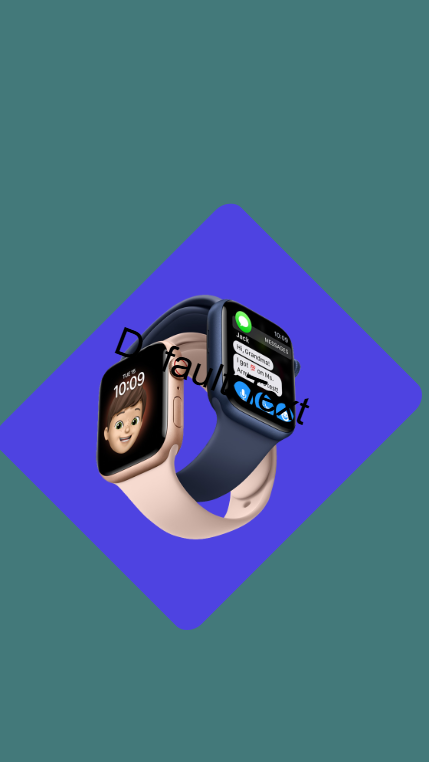
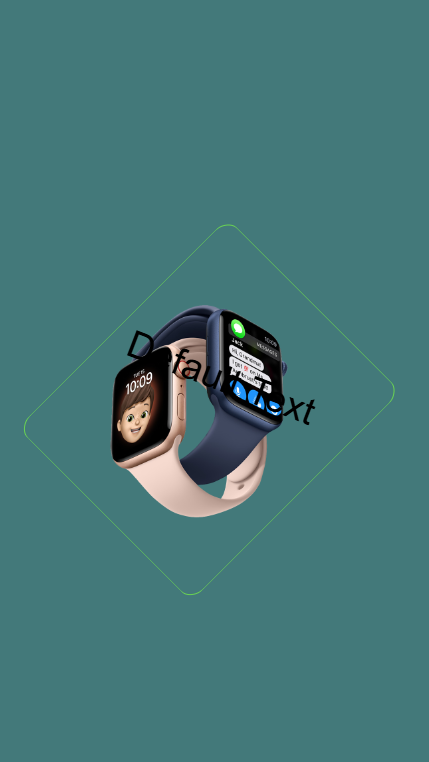
changes for Save stroke and fill save color

Changed region(s): [[0.0, 0.2415, 1.0, 0.8451]]

diff --git a/AnimationProject/wwwroot/js/animations.js b/AnimationProject/wwwroot/js/animations.js
@@ -580,7 +580,6 @@ function initializeLayers() {
 }
 
 function drawCanvas(condition) {
-    console.log("Calling Point");
     initializeLayers();
     resizeCanvas();
     const dpr = window.devicePixelRatio || 1;
@@ -2285,6 +2284,9 @@ function cloneImageObject(srcObj) {
         selected: false,
         zIndex: getNextZIndex(),
         type: 'image',
+        fillNoColor: false,
+        strokeNoColor: false,
+        strokeWidth: parseInt(document.getElementById('ddlStrokeWidth').value, 10) || 3
         // Copy any other custom fields if needed...
     };
 }
@@ -4264,6 +4266,13 @@ canvas.addEventListener("click", function (e) {
     drawCanvas('Common');
     updateFontStyleButtons();
     const selectedType = getSelectedType();
+    if (selectedType == "Shape") {
+        $("#hdnfillNoColor").val(imgHit.fillNoColor || false);
+        $("#hdnstrokeNoColor").val(imgHit.strokeNoColor || false);
+        document.getElementById('ddlStrokeWidth').value = (imgHit.strokeWidth || 3).toString();
+        document.getElementById("noColorCheck").checked = imgHit.fillNoColor||false;
+        document.getElementById("noColorCheck2").checked = imgHit.strokeNoColor || false;
+    }
     console.log("Selected Type:", selectedType);
     HideShowRightPannel(selectedType);
 
@@ -4615,7 +4624,11 @@ function SetNoFillColor() {
             previousFillColor = fillColorPicker.value;
             $("#hdnfillColor").val("none");
             updateSelectedImageColors("none", $("#hdnStrockColor").val());
+            $("#hdnfillNoColor").val(true);
+            /*document.getElementById("noColorCheck").checked = true;*/
         } else {
+            $("#hdnfillNoColor").val(false);
+            /*document.getElementById("noColorCheck").checked = false;*/
             // Restore previous fill color
             if (previousFillColor) {
                 $("#hdnfillColor").val(previousFillColor);
@@ -4651,12 +4664,16 @@ function SetNoStrokeColor() {
             // Save current stroke color
             previousStrokeColor = strokeColorPicker.value;
             $("#hdnStrockColor").val("none");
-            updateSelectedImageColors($("#hdnfillColor").val(), "none");
+            updateSelectedImageColors($("#hdnStrockColor").val(), "none");
+            $("#hdnstrokeNoColor").val(true);
+           /* document.getElementById("noColorCheck2").checked = true;*/
         } else {
+            $("#hdnstrokeNoColor").val(false);
+           /* document.getElementById("noColorCheck2").checked = false;*/
             // Restore previous stroke color
             if (previousStrokeColor) {
                 $("#hdnStrockColor").val(previousStrokeColor);
-                updateSelectedImageColors($("#hdnfillColor").val(), previousStrokeColor);
+                updateSelectedImageColors($("#hdnStrockColor").val(), previousStrokeColor);
 
                 // Also update the color picker UI
                 strokeColorPicker.value = previousStrokeColor;
@@ -4900,7 +4917,10 @@ canvas.addEventListener('drop', e => {
             groupId: null,
             rotation: 0,
             type: "image",
-            zIndex: getNextZIndex()
+            zIndex: getNextZIndex(),
+            fillNoColor: false,
+            strokeNoColor: false,
+            strokeWidth: parseInt(document.getElementById('ddlStrokeWidth').value, 10) || 3
         });
         drawCanvas('Common');
     };
@@ -5956,3 +5976,10 @@ duplicateOption.addEventListener('click', () => {
     }
 });
 
+function strokeWidthChanges() {
+    const ddl = document.getElementById('ddlStrokeWidth');
+    const newWidth = ddl.value;    // e.g. "4"
+    const widthNum = parseInt(newWidth, 10);
+
+    console.log('Stroke width changed to:', widthNum);
+}

diff --git a/AnimationProject/wwwroot/js/action.js b/AnimationProject/wwwroot/js/action.js
@@ -454,7 +454,10 @@ function saveCanvasData() {
                 groupId: imgObj.groupId,
                 rotation: imgObj.rotation,
                 type: imgObj.type || 'image',
-                zIndex: imgObj.zIndex || getNextZIndex()
+                zIndex: imgObj.zIndex || getNextZIndex(),
+                fillNoColor: $("#hdnfillNoColor").val(),
+                strokeNoColor: $("#hdnstrokeNoColor").val(),
+                strokeWidth: parseInt(document.getElementById('ddlStrokeWidth').value, 10) || 3
             };
         })
     };
@@ -801,6 +804,9 @@ async function loadCanvasFromJson(jsonData, condition = 'Common') {
         o.rotation = imgObj.rotation;
         o.type = imgObj.type || 'image';
         o.zIndex = imgObj.zIndex || getNextZIndex();
+        o.fillNoColor = imgObj.fillNoColor||false;
+        o.strokeNoColor = imgObj.strokeNoColor || false;
+        o.strokeWidth = imgObj.strokeWidth || 3;
         return o;
     });
 
